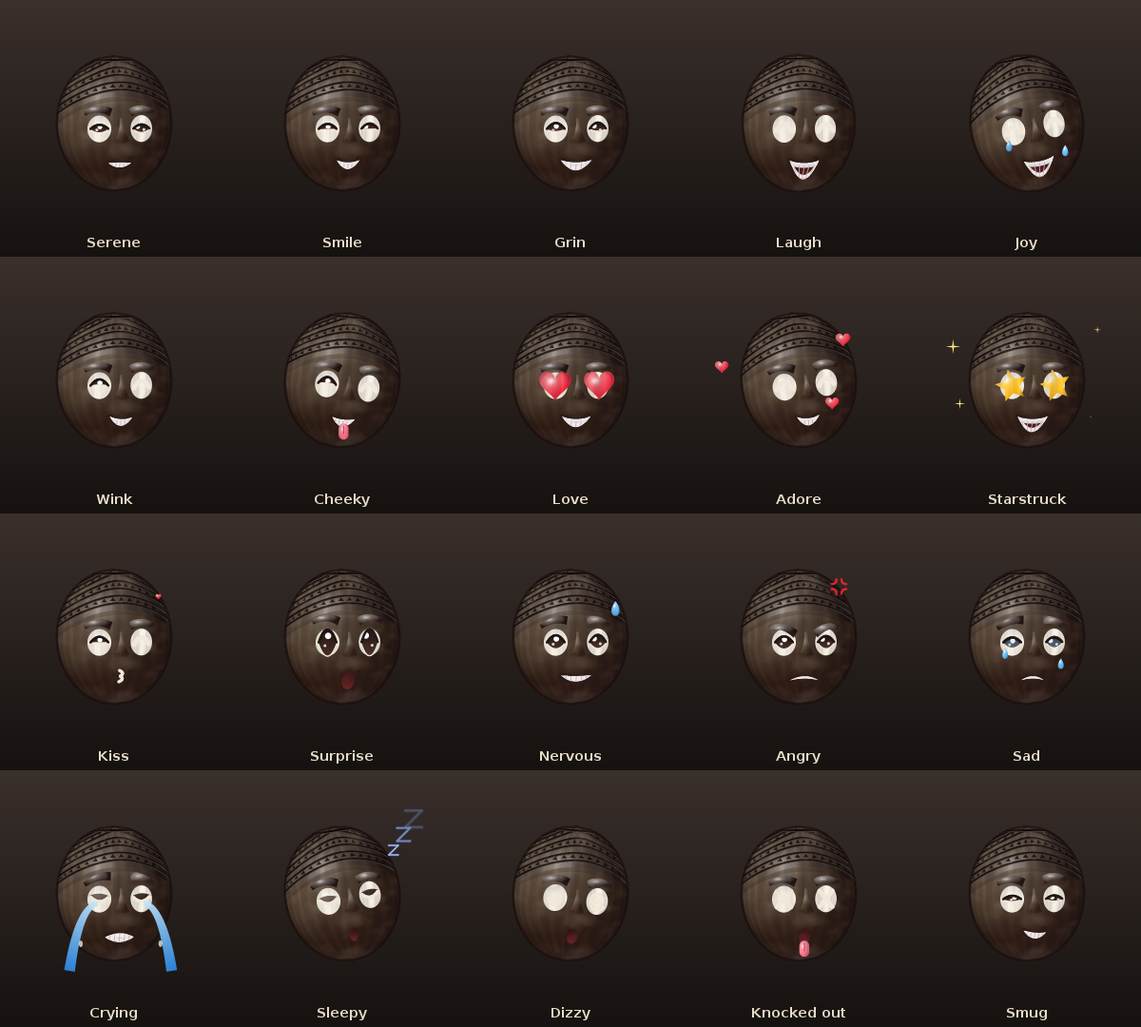
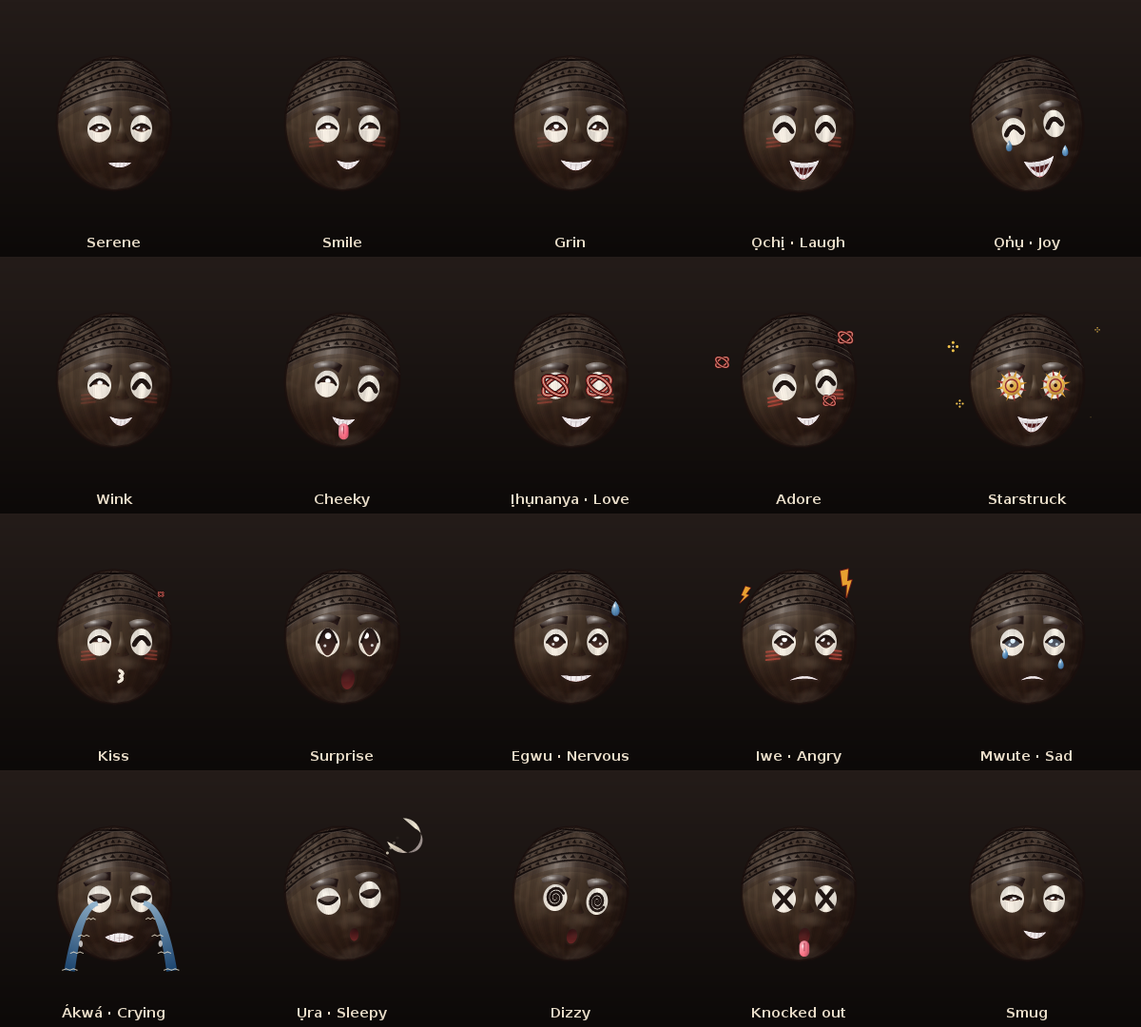
Emoji masks: darker, Igbo presets and Igbo and African emotion signs
Darker: deeper and cooler shadows with a lower key light. Painted masks
are aged toward their wood and worn through more, and the generator leans
to carved blackwood and mahogany.

Feelings shown in the masks' own signs instead of Western emoji. On wood
and brass (the glossy finish keeps the emoji ones):
- love is a lovers' knot of two loops, in camwood and kaolin, inspired by
  nsibidi;
- wonder turns the eyes into Anyanwu, the sun;
- anger is Amadioha's thunder, a flickering bolt;
- sleep is the moon, onwa, rising with a trail of dots;
- delight is uli dots in diamonds;
- blush is uhie, camwood rubbed on the cheeks in three stripes;
- tears run in deep water with the uli wave sign for water.

Igbo presets: Agbogho Mmuo, Okoroshi Ocha and Ojo, Mgbedike, Ikenga,
Igbo-Ukwu bronze, Ijele, Afikpo Okumkpa, Ogbodo Enyi, Mbari Nne, an uli
maiden and an ichi elder. The eight plain feelings carry Igbo names, which
a speaker should check.

Claude-Session: https://claude.ai/code/session_012NjHhwH1EvBHzbd255Gvhb

diff --git a/engine/model/src/main/kotlin/com/stratum/engine/model/mask/EmojiMask.kt b/engine/model/src/main/kotlin/com/stratum/engine/model/mask/EmojiMask.kt
@@ -178,37 +178,46 @@ object EmojiMask {
     // ---- Masks from the carvers ----------------------------------------------------------
 
     /** Masks after the carvers' own: maidens, spirits, the brave. */
+    /** Igbo masks after the carvers': maidens and spirits of the masquerade, titled elders, the old bronzes. */
     val presets: List<Look> = listOf(
         Look("Agbogho Mmuo", shape = FaceShape.LONG, width = 0.4f, crestColour = BLACKWOOD, crestCount = 3, crestSize = 0.6f, hairline = Hairline.HIGH,
-            marks = setOf(Mark.LINE, Mark.STAR, Mark.TEMPLE), paint = setOf(Paint.LIDS)),
-        Look("Fang Ngil", finish = Finish.CARVED, shape = FaceShape.LONG, ground = BLACKWOOD, wood = BLACKWOOD, hair = BLACKWOOD, accent = KAOLIN, width = 0.3f,
-            hairline = Hairline.BALD, crest = Crest.RIDGES, crestCount = 1, crestSize = 0.7f, crestColour = BLACKWOOD, eyes = EyeStyle.SLIT, brows = BrowStyle.NONE,
+            marks = setOf(Mark.LINE, Mark.STAR, Mark.TEMPLE), paint = setOf(Paint.LIDS, Paint.SPIRALS)),
+        Look("Okoroshi Ocha", finish = Finish.CARVED, shape = FaceShape.LONG, ground = BLACKWOOD, wood = BLACKWOOD, hair = BLACKWOOD, accent = KAOLIN, width = 0.35f,
+            hairline = Hairline.BALD, crest = Crest.RIDGES, crestCount = 1, crestSize = 0.6f, crestColour = BLACKWOOD, eyes = EyeStyle.SLIT, brows = BrowStyle.NONE,
             paint = setOf(Paint.HEART), marks = setOf(Mark.LINE)),
         Look("Okoroshi Ojo", finish = Finish.CARVED, ground = BLACKWOOD, wood = BLACKWOOD, hair = LAMPBLACK, accent = KAOLIN, accent2 = GOLD, hairline = Hairline.LOW,
             crest = Crest.NONE, eyes = EyeStyle.ROUND, brows = BrowStyle.RIDGE, nose = NoseStyle.BROAD, mouth = MouthStyle.TEETH, marks = setOf(Mark.ICHI), width = 0.7f),
         Look("Mgbedike", finish = Finish.CARVED, shape = FaceShape.ROUND, ground = MAHOGANY, wood = MAHOGANY, hair = BLACKWOOD, accent = KAOLIN, accent2 = GOLD, crestColour = BONE,
             hairline = Hairline.BALD, crest = Crest.HORNS, crestSize = 0.8f, eyes = EyeStyle.TUBE, brows = BrowStyle.RIDGE, nose = NoseStyle.BROAD, mouth = MouthStyle.TEETH,
             ears = Ears.SMALL, marks = setOf(Mark.CHEEK), beard = true, width = 0.8f),
-        Look("Beaded Maiden", wood = IROKO, accent = VERMILION, accent2 = INDIGO, crest = Crest.RIDGES, crestCount = 1, crestSize = 0.9f, crestColour = INDIGO, cowries = true,
-            brows = BrowStyle.THIN, paint = setOf(Paint.SPLIT), marks = emptySet(), width = 0.35f, shape = FaceShape.LONG, hairline = Hairline.HIGH),
-        Look("Conical Crest", wood = UMBER, crest = Crest.CONE, crestColour = IROKO, accent = OCHRE, accent2 = VERMILION, hairline = Hairline.HIGH,
-            marks = setOf(Mark.LINE, Mark.KELOID), paint = setOf(Paint.LIDS)),
-        Look("Afikpo Elder", finish = Finish.CARVED, shape = FaceShape.LONG, ground = IROKO, wood = IROKO, hair = BLACKWOOD, accent = VERMILION, accent2 = KAOLIN,
-            hairline = Hairline.BALD, crest = Crest.NONE, paint = setOf(Paint.EYE_BAND), marks = setOf(Mark.ICHI), width = 0.25f, brows = BrowStyle.THIN),
-        Look("Ijele Crown", ground = OCHRE, wood = MAHOGANY, accent = VERMILION, accent2 = JADE, crestColour = JADE, crest = Crest.TIERS, hairline = Hairline.HIGH,
-            marks = setOf(Mark.ICHI), cowries = true),
-        Look("Knot Maiden", hair = INDIGO, crest = Crest.KNOTS, crestColour = INDIGO, crestCount = 3, eyes = EyeStyle.BEAN,
-            marks = setOf(Mark.TEMPLE, Mark.KELOID), paint = setOf(Paint.SPIRALS), earrings = true, accent = CORAL, shape = FaceShape.HEART, hairline = Hairline.HIGH),
-        Look("Elephant Spirit", ground = TERRACOTTA, wood = BLACKWOOD, hair = LAMPBLACK, hairline = Hairline.LOW, crest = Crest.KNOTS, crestCount = 1, crestColour = BRASS,
-            eyes = EyeStyle.ROUND, mouth = MouthStyle.TEETH, ears = Ears.ELEPHANT, accent = KAOLIN, marks = setOf(Mark.ICHI), shape = FaceShape.ROUND, width = 0.8f),
-        Look("Benin Queen", finish = Finish.BRASS, ground = BRASS, wood = BRASS, hair = BRASS, crest = Crest.CONE, crestColour = BRASS, crestSize = 0.9f, hairline = Hairline.HIGH,
-            braids = false, cowries = true, brows = BrowStyle.THIN, accent = CORAL, accent2 = CORAL, marks = setOf(Mark.TEMPLE), earrings = true,
-            shape = FaceShape.LONG, width = 0.45f),
-        Look("Camwood Maiden", finish = Finish.CARVED, ground = CAMWOOD, wood = CAMWOOD, hair = BLACKWOOD, crest = Crest.LOBES, crestCount = 3, crestColour = BLACKWOOD,
-            accent = KAOLIN, accent2 = GOLD, paint = setOf(Paint.SPIRALS), marks = setOf(Mark.STAR), cowries = true),
-        Look("Brass Warrior", finish = Finish.BRASS, ground = BRASS, wood = BRASS, hair = BRASS, crest = Crest.HORNS, crestColour = BRASS, crestSize = 0.6f, hairline = Hairline.BALD,
-            eyes = EyeStyle.TUBE, brows = BrowStyle.RIDGE, nose = NoseStyle.BROAD, mouth = MouthStyle.TEETH, marks = setOf(Mark.CHEEK), beard = true, shape = FaceShape.ROUND, width = 0.7f,
-            accent = CORAL),
+        Look("Ikenga", finish = Finish.CARVED, ground = BLACKWOOD, wood = BLACKWOOD, hair = BLACKWOOD, accent = CAMWOOD, accent2 = KAOLIN, crestColour = UMBER,
+            hairline = Hairline.BALD, crest = Crest.HORNS, crestSize = 1f, eyes = EyeStyle.BEAN, brows = BrowStyle.RIDGE, mouth = MouthStyle.WIDE,
+            marks = setOf(Mark.ICHI, Mark.TEMPLE), beard = true, width = 0.6f),
+        Look("Igbo-Ukwu Bronze", finish = Finish.BRASS, ground = BRASS, wood = BRASS, hair = BRASS, crest = Crest.NONE, hairline = Hairline.HIGH, braids = true,
+            cowries = true, eyes = EyeStyle.BEAN, brows = BrowStyle.NONE, marks = setOf(Mark.ICHI, Mark.TEMPLE, Mark.CHEEK), accent = CORAL, accent2 = CORAL,
+            shape = FaceShape.OVAL, width = 0.55f),
+        Look("Ijele", ground = OCHRE, wood = MAHOGANY, accent = VERMILION, accent2 = JADE, crestColour = JADE, crest = Crest.TIERS, hairline = Hairline.HIGH,
+            marks = setOf(Mark.ICHI), paint = setOf(Paint.SPIRALS), cowries = true),
+        Look("Afikpo Okumkpa", finish = Finish.CARVED, shape = FaceShape.LONG, ground = IROKO, wood = IROKO, hair = BLACKWOOD, accent = CAMWOOD, accent2 = KAOLIN,
+            hairline = Hairline.BALD, crest = Crest.NONE, paint = setOf(Paint.EYE_BAND), marks = setOf(Mark.ICHI), width = 0.25f, brows = BrowStyle.THIN, eyes = EyeStyle.SLIT),
+        Look("Ogbodo Enyi", finish = Finish.CARVED, ground = BLACKWOOD, wood = BLACKWOOD, hair = LAMPBLACK, hairline = Hairline.LOW, crest = Crest.KNOTS, crestCount = 1,
+            crestColour = CAMWOOD, eyes = EyeStyle.ROUND, mouth = MouthStyle.TEETH, ears = Ears.ELEPHANT, accent = KAOLIN, marks = setOf(Mark.ICHI),
+            shape = FaceShape.ROUND, width = 0.8f),
+        Look("Mbari Nne", ground = KAOLIN, wood = UMBER, hair = LAMPBLACK, crest = Crest.CONE, crestColour = CAMWOOD, crestSize = 0.8f, accent = OCHRE, accent2 = CAMWOOD,
+            hairline = Hairline.HIGH, marks = setOf(Mark.LINE, Mark.KELOID), paint = setOf(Paint.SPIRALS, Paint.CHIN), earrings = true),
+        Look("Uli Maiden", finish = Finish.CARVED, ground = CAMWOOD, wood = CAMWOOD, hair = BLACKWOOD, crest = Crest.LOBES, crestCount = 3, crestColour = BLACKWOOD,
+            accent = KAOLIN, accent2 = GOLD, paint = setOf(Paint.SPIRALS), marks = setOf(Mark.STAR, Mark.TEMPLE), cowries = true, shape = FaceShape.HEART),
+        Look("Ichi Elder", finish = Finish.CARVED, ground = UMBER, wood = UMBER, hair = BLACKWOOD, accent = KAOLIN, hairline = Hairline.BALD, crest = Crest.NONE,
+            eyes = EyeStyle.BEAN, brows = BrowStyle.RIDGE, nose = NoseStyle.BROAD, marks = setOf(Mark.ICHI, Mark.TEMPLE, Mark.CHEEK), beard = true, shape = FaceShape.LONG, width = 0.5f),
+    )
+
+    /**
+     * Igbo names for the feelings, for players to see beside the English.
+     * Only the plain, common words; a speaker should check them.
+     */
+    val igboNames: Map<String, String> = mapOf(
+        "Laugh" to "Ọchị", "Joy" to "Ọṅụ", "Love" to "Ịhụnanya", "Angry" to "Iwe", "Sad" to "Mwute",
+        "Crying" to "Ákwá", "Sleepy" to "Ụra", "Nervous" to "Egwu",
     )
 
     /** A mask from [seed]: the same seed, the same mask. */
@@ -216,12 +225,12 @@ object EmojiMask {
         val r = Random(seed * 0x5DEECE66DL + 11)
         fun <T> one(xs: List<T>): T = xs[r.nextInt(xs.size)]
         fun <T> some(xs: List<T>, most: Int): Set<T> = xs.shuffled(r).take(r.nextInt(0, most + 1)).toSet()
-        val finish = one(listOf(Finish.CARVED, Finish.CARVED, Finish.PAINTED, Finish.PAINTED, Finish.PAINTED, Finish.BRASS))
-        val wood = one(listOf(IROKO, BLACKWOOD, MAHOGANY, UMBER, CAMWOOD))
+        val finish = one(listOf(Finish.CARVED, Finish.CARVED, Finish.CARVED, Finish.PAINTED, Finish.PAINTED, Finish.BRASS))
+        val wood = one(listOf(BLACKWOOD, BLACKWOOD, MAHOGANY, MAHOGANY, UMBER, CAMWOOD, IROKO))
         val ground = when (finish) {
             Finish.CARVED -> wood
             Finish.BRASS -> BRASS
-            else -> one(listOf(KAOLIN, KAOLIN, KAOLIN, BONE, OCHRE, CAMWOOD, TERRACOTTA, INDIGO))
+            else -> one(listOf(KAOLIN, KAOLIN, BONE, OCHRE, CAMWOOD, CAMWOOD, INDIGO))
         }
         val dark = ground in setOf(CAMWOOD, UMBER, CHARCOAL, INDIGO)
         val eyes = one(listOf(EyeStyle.BEAN, EyeStyle.BEAN, EyeStyle.BEAN, EyeStyle.TUBE, EyeStyle.TUBE, EyeStyle.ROUND, EyeStyle.ROUND, EyeStyle.SLIT, EyeStyle.ALMOND))
@@ -301,14 +310,15 @@ object EmojiMask {
         val gloss = look.finish == Finish.GLOSS
         /** How shiny a surface of this mask is: waxed wood is satin, chalk is matte, brass gleams. */
         val sheen = when (look.finish) { Finish.CARVED -> 0.2f; Finish.PAINTED -> 0.12f; Finish.BRASS -> 0.95f; Finish.GLOSS -> 0.42f }
-        val faceMat = moody(material(pigment(look.ground), sheen))
+        val faceMat = moody(material(if (look.finish == Finish.PAINTED) mix(pigment(look.ground), pigment(look.wood), 0.14f) else pigment(look.ground), sheen))
         val woodMat = moody(material(pigment(look.wood), 0.22f))
         val hairMat = moody(material(pigment(look.hair), if (gloss) 0.75f else if (metal) 0.9f else 0.35f))
         val crestMat = moody(material(pigment(look.crestColour), if (gloss) 0.6f else if (metal) 0.9f else 0.3f))
 
         /** Deeper, cooler shadows and warmer light, as a painter lights a figure; the glossy emoji keeps its own. */
         fun moody(m: Material): Material = if (gloss) m else Material(
-            light = mix(m.base, c(0xFFE6BE), 0.34f), base = m.base, shade = mix(m.base, c(0x160C14), 0.58f), spec = m.spec, bounce = mix(m.base, c(0xD8764A), 0.35f),
+            light = mix(m.base, c(0xFFDDAE), 0.24f), base = mix(m.base, c(0x1A0E0C), 0.12f), shade = mix(m.base, c(0x0C0608), 0.7f), spec = m.spec * 0.8f,
+            bounce = mix(m.base, c(0xB85A30), 0.3f),
         )
         val accentMat = material(pigment(look.accent), 0.5f)
         val accent2Mat = material(pigment(look.accent2), 0.45f)
@@ -316,7 +326,8 @@ object EmojiMask {
         val carved = mix(pigment(look.ground), c(0x1E1212), if (luma(pigment(look.ground)) > 0.5f) 0.62f else 0.3f)
         /** A dark mask draws its lines in kaolin, as the carvers paint round its eyes and mouth. */
         val darkGround = luma(pigment(look.ground)) < 0.3f
-        val eyeLine = if (darkGround) c(0xF1E8DA) else EYE_DARK
+        /** Round eyes sit on a painted kaolin disc, so their lines are dark whatever the wood. */
+        val eyeLine = if (darkGround && look.eyes != EyeStyle.ROUND) c(0xF1E8DA) else EYE_DARK
         val mouthLine = if (darkGround) c(0xF1E8DA) else MOUTH_INK
 
         /** On a dark mask, a kaolin rim round a dark opening so it reads. */
@@ -439,7 +450,7 @@ object EmojiMask {
             if (look.finish != Finish.PAINTED) return 0f
             // Worn back to the wood at the rim, on the high points and in patches.
             val n = fbm(th * 3.1f + 7f, v * 3.4f) + 0.35f * nz - 0.05f * noise(th * 20f, v * 20f)
-            return ((n - 0.49f) / 0.05f).coerceIn(0f, 1f)
+            return ((n - 0.53f) / 0.05f).coerceIn(0f, 1f)
         }
 
         /** A shaded paint for a rounded piece centred at ([cx], [cy]) with radii [rw], [rh], turned by [angle]. */
@@ -674,8 +685,8 @@ object EmojiMask {
                 Paint.CHIN -> region(-HALF_PI, HALF_PI, { -1f }, { MOUTH_V - 0.17f }, 48)?.let { cv.fill(it, headPaint(accent2Mat)) }
                 Paint.SPIRALS -> sides { sd ->
                     val pts = FloatArray(82)
-                    for (i in 0..40) { val k = i / 40f; val a = k * 4.2f * PI.toFloat() * sd; val r = 0.012f + 0.085f * k; pts[i * 2] = sd * 0.52f + cos(a) * r; pts[i * 2 + 1] = -0.2f + sin(a) * r }
-                    if (facing(sd * 0.52f, -0.2f) > 0.1f) cv.stroke(onFace(pts), 0.02f, ink)
+                    for (i in 0..40) { val k = i / 40f; val a = k * 4.2f * PI.toFloat() * sd; val r = 0.01f + 0.07f * k; pts[i * 2] = sd * 0.6f + cos(a) * r; pts[i * 2 + 1] = -0.42f + sin(a) * r }
+                    if (facing(sd * 0.6f, -0.42f) > 0.1f) cv.stroke(onFace(pts), 0.02f, ink)
                 }
                 Paint.HEART -> {
                     // The Fang heart: a concave plane from the brows down to the chin, framed by a carved ridge.
@@ -738,11 +749,24 @@ object EmojiMask {
             }
         }
 
+        /** Uhie, camwood, rubbed on the cheeks: a warm smear and three stripes -- the feeling shows in the pigment. */
         fun blush() {
             val amount = (f.blush + f.anger * 0.3f).coerceIn(0f, 1.2f)
-            if (amount <= 0f || !gloss) return
-            val col = if (luma(pigment(look.ground)) > 0.5f) c(0xE8584A) else c(0xFF6A5A)
-            sides { sd -> softOnFace(sd * 0.56f, -0.26f, 0.24f, 0.14f, col, 0.55f * amount) }
+            if (amount <= 0f) return
+            if (gloss) {
+                val col = if (luma(pigment(look.ground)) > 0.5f) c(0xE8584A) else c(0xFF6A5A)
+                sides { sd -> softOnFace(sd * 0.56f, -0.26f, 0.24f, 0.14f, col, 0.55f * amount) }
+                return
+            }
+            val cam = if (darkGround) c(0xC0473A) else c(0x8E2C2F)
+            sides { sd ->
+                if (facing(sd * 0.55f, -0.28f) <= 0.15f) return@sides
+                softOnFace(sd * 0.55f, -0.28f, 0.22f, 0.12f, cam, 0.45f * amount)
+                for (i in 0 until 3) {
+                    val v = -0.2f - i * 0.06f
+                    cv.stroke(onFace(floatArrayOf(sd * 0.44f, v, sd * 0.66f, v - 0.02f)), 0.026f, cam, opacity = min(1f, amount) * 0.9f)
+                }
+            }
         }
 
         // ---- the face ----------------------------------------------------------------
@@ -796,17 +820,23 @@ object EmojiMask {
             }
             when (f.eyeKind) {
                 EyeKind.HEART -> {
-                    val p = point(cu, v, 0.04f); val s = 0.27f * (1f + 0.08f * sin(t * 9f))
-                    val h = heart(p[0], p[1], s * (0.45f + 0.55f * fc), s)
-                    val b = bounds(h)
-                    cv.fill(h, blobPaint(material(c(0xE8283C), 0.8f), (b[0] + b[2]) / 2f, (b[1] + b[3]) / 2f, (b[2] - b[0]) / 2f, (b[3] - b[1]) / 2f))
+                    // Love: a lovers' knot, two loops holding each other, beating.
+                    val p = point(cu, v, 0.04f); val s = 0.2f * (1f + 0.08f * sin(t * 6f))
+                    if (gloss) {
+                        val h = heart(p[0], p[1], s * 1.3f * (0.45f + 0.55f * fc), s * 1.3f)
+                        val b = bounds(h)
+                        cv.fill(h, blobPaint(material(c(0xE8283C), 0.8f), (b[0] + b[2]) / 2f, (b[1] + b[3]) / 2f, (b[2] - b[0]) / 2f, (b[3] - b[1]) / 2f))
+                    } else knot(p[0], p[1], s, 0.45f + 0.55f * fc)
                     return
                 }
                 EyeKind.STAR -> {
-                    val p = point(cu, v, 0.04f); val s = 0.25f * (1f + 0.06f * sin(t * 7f))
-                    val st5 = star(p[0], p[1], s * 0.45f, s, 5, t * 0.6f, fc)
-                    val b = bounds(st5)
-                    cv.fill(st5, blobPaint(material(c(0xFFC21A), 0.9f), (b[0] + b[2]) / 2f, (b[1] + b[3]) / 2f, (b[2] - b[0]) / 2f, (b[3] - b[1]) / 2f))
+                    // Wonder: the eyes become Anyanwu, the sun.
+                    val p = point(cu, v, 0.04f); val s = 0.22f * (1f + 0.06f * sin(t * 5f))
+                    if (gloss) {
+                        val st5 = star(p[0], p[1], s * 0.5f, s * 1.1f, 5, t * 0.6f, fc)
+                        val b = bounds(st5)
+                        cv.fill(st5, blobPaint(material(c(0xFFC21A), 0.9f), (b[0] + b[2]) / 2f, (b[1] + b[3]) / 2f, (b[2] - b[0]) / 2f, (b[3] - b[1]) / 2f))
+                    } else sun(p[0], p[1], s, t * 0.5f, 0.45f + 0.55f * fc)
                     return
                 }
                 EyeKind.X -> {
@@ -1194,7 +1224,18 @@ object EmojiMask {
                 val p = point(0.6f, 0.42f, 0.05f)
                 drop(p[0] + 0.06f, p[1] - ((t * 0.3f) % 1f) * 0.05f, 0.08f * f.sweat)
             }
-            if (f.zzz > 0f) for (k in 0 until 3) {
+            if (f.zzz > 0f && !gloss) {
+                // Sleep: ọnwa, the moon, rising with a trail of dots.
+                val ph = (t * 0.2f) % 1f
+                val x = 0.9f + 0.15f * ph; val y = headY + 0.85f + 0.2f * ph
+                val s = 0.26f * f.zzz
+                cv.fill(crescentShape(x, y, s, -0.6f), blobPaint(material(c(0xE8E0CC), 0.4f), x, y, s, s))
+                for (k in 0 until 4) {
+                    val q = (t * 0.5f + k / 4f) % 1f
+                    cv.fill(Shapes.ellipse(x - 0.28f + 0.2f * q, y - 0.32f + 0.3f * q, 0.022f, 0.022f, 10), c(0xE8E0CC), (1f - q) * f.zzz)
+                }
+            }
+            if (f.zzz > 0f && gloss) for (k in 0 until 3) {
                 val ph = (t * 0.35f + k / 3f) % 1f
                 val s = (0.06f + 0.08f * ph) * f.zzz
                 val x = 0.7f + 0.45f * ph; val y = headY + 0.55f + 0.7f * ph
@@ -1202,7 +1243,15 @@ object EmojiMask {
                 cv.stroke(z, s * 0.55f, c(0x2A3A7A), opacity = 1f - ph)
                 cv.stroke(z, s * 0.3f, c(0xBFD8FF), opacity = 1f - ph)
             }
-            if (f.hearts > 0f) {
+            if (f.hearts > 0f && !gloss) {
+                val n = if (f.hearts > 0.6f) 3 else 1
+                for (k in 0 until n) {
+                    val a = t * 0.8f + k * 2.1f + 0.6f
+                    val x = cos(a) * 1.15f; val y = headY + 0.2f + sin(a) * 0.55f
+                    knot(x, y, 0.11f * f.hearts * (1f + 0.1f * sin(t * 6f + k)), 1f)
+                }
+            }
+            if (f.hearts > 0f && gloss) {
                 val n = if (f.hearts > 0.6f) 3 else 1
                 for (k in 0 until n) {
                     val a = t * 0.9f + k * 2.1f + 0.6f
@@ -1212,7 +1261,13 @@ object EmojiMask {
                     cv.fill(h, blobPaint(material(c(0xE8283C), 0.8f), x, y, s, s))
                 }
             }
-            if (f.anger > 0f) {
+            if (f.anger > 0f && !gloss) {
+                // Anger: Amadioha's thunder, a bolt over the brow, flickering.
+                val flick = if (((t * 7f).toInt() % 5) == 0) 0.6f else 1f
+                bolt(0.72f, headY + 0.8f, 0.2f * f.anger, 0.25f, flick)
+                bolt(-0.8f, headY + 0.62f, 0.13f * f.anger, -0.3f, flick)
+            }
+            if (f.anger > 0f && gloss) {
                 val cx = 0.6f; val cy = headY + 0.75f; val s = 0.1f * f.anger * (1f + 0.08f * sin(t * 10f))
                 for (q in 0 until 4) {
                     val a = q * PI.toFloat() / 2f + PI.toFloat() / 4f
@@ -1221,7 +1276,19 @@ object EmojiMask {
                     cv.stroke(arc, s * 0.32f, c(0xE0242E))
                 }
             }
-            if (f.sparkle > 0f) {
+            if (f.sparkle > 0f && !gloss) {
+                // Delight: uli dots, four in a diamond, twinkling round the head.
+                val spots = listOf(-1.1f to 0.5f, 1.05f to 0.75f, 0.95f to -0.55f, -1.0f to -0.35f)
+                spots.forEachIndexed { i, (x, y) ->
+                    val tw = (0.55f + 0.45f * sin(t * 4f + i * 1.7f)) * f.sparkle
+                    for (q in 0 until 4) {
+                        val a = q * PI.toFloat() / 2f
+                        cv.fill(Shapes.ellipse(x + cos(a) * 0.06f * tw, headY + y + sin(a) * 0.06f * tw, 0.022f * tw, 0.022f * tw, 10), c(0xF2C24A))
+                    }
+                    cv.fill(Shapes.ellipse(x, headY + y, 0.014f * tw, 0.014f * tw, 8), c(0xF4ECDC))
+                }
+            }
+            if (f.sparkle > 0f && gloss) {
                 val spots = listOf(-1.1f to 0.5f, 1.05f to 0.75f, 0.95f to -0.55f, -1.0f to -0.35f)
                 spots.forEachIndexed { i, (x, y) ->
                     val tw = (0.55f + 0.45f * sin(t * 4f + i * 1.7f)) * f.sparkle
@@ -1239,7 +1306,14 @@ object EmojiMask {
                     val a = point(sd * (EYE_U + 0.02f), EYE_V - 0.06f, 0.03f)
                     val spine = floatArrayOf(a[0], a[1], a[0] + sd * 0.28f, a[1] - 0.05f, a[0] + sd * 0.42f, headY - ry - 0.15f)
                     val s = Shapes.taper(spine[0], spine[1], spine[2], spine[3], spine[4], spine[5], 0.07f, 0.16f * amount, 18)
-                    cv.fill(s, linear(spine[0], spine[1], c(0xBFE6FF), spine[4], spine[5], c(0x2E8AE6)), 0.92f)
+                    cv.fill(s, linear(spine[0], spine[1], if (gloss) c(0xBFE6FF) else c(0x8FB4D0), spine[4], spine[5], if (gloss) c(0x2E8AE6) else c(0x1E4A78)), 0.92f)
+                    if (!gloss) for (q in 0 until 4) {
+                        // Mmiri: the uli sign for water, waves running down the stream.
+                        val k = ((t * 0.6f + q / 4f) % 1f)
+                        val wx = spine[0] + (spine[4] - spine[0]) * k; val wy = spine[1] + (spine[5] - spine[1]) * k
+                        val ww = 0.05f + 0.06f * k
+                        cv.stroke(floatArrayOf(wx - ww, wy, wx - ww / 2f, wy + 0.02f, wx, wy, wx + ww / 2f, wy + 0.02f, wx + ww, wy), 0.014f, c(0xE8E0CC), opacity = 0.8f)
+                    }
                     val wave = (t * 1.5f) % 1f
                     val wy = spine[1] + (spine[5] - spine[1]) * wave
                     cv.fill(Shapes.ellipse(spine[0] + (spine[4] - spine[0]) * wave, wy, 0.03f, 0.05f, 12), c(0xFFFFFF), 0.7f)
@@ -1254,7 +1328,51 @@ object EmojiMask {
         fun drop(x: Float, y: Float, s: Float) {
             val pts = teardrop(x, y, s)
             val b = bounds(pts)
-            cv.fill(pts, blobPaint(material(c(0x5AB4F5), 0.95f), (b[0] + b[2]) / 2f, (b[1] + b[3]) / 2f, (b[2] - b[0]) / 2f, (b[3] - b[1]) / 2f))
+            cv.fill(pts, blobPaint(material(if (gloss) c(0x5AB4F5) else c(0x4A86B8), 0.95f), (b[0] + b[2]) / 2f, (b[1] + b[3]) / 2f, (b[2] - b[0]) / 2f, (b[3] - b[1]) / 2f))
+        }
+
+        // ---- signs -----------------------------------------------------------------------
+
+        /** A lovers' knot: two loops holding each other, camwood with a kaolin line. */
+        fun knot(x: Float, y: Float, s: Float, squeeze: Float) {
+            for (a in listOf(0.6f, -0.6f)) {
+                val loop = rotate(Shapes.ellipse(x, y, s * squeeze, s * 0.5f, 28), x, y, a)
+                cv.stroke(loop, s * 0.32f, c(0x2A0E0E), closed = true)
+                cv.stroke(loop, s * 0.2f, c(0xA8322E), closed = true)
+                cv.stroke(loop, s * 0.05f, c(0xF0E4CC), closed = true, opacity = 0.9f)
+            }
+        }
+
+        /** Anyanwu, the sun: a gold disc with a camwood ring, and rays turning round it. */
+        fun sun(x: Float, y: Float, s: Float, spin: Float, squeeze: Float) {
+            val n = 12
+            for (i in 0 until n) {
+                val a = spin + i * 2f * PI.toFloat() / n
+                val ray = floatArrayOf(
+                    x + cos(a - 0.14f) * s * 0.62f * squeeze, y + sin(a - 0.14f) * s * 0.62f,
+                    x + cos(a) * s * 1.05f * squeeze, y + sin(a) * s * 1.05f,
+                    x + cos(a + 0.14f) * s * 0.62f * squeeze, y + sin(a + 0.14f) * s * 0.62f,
+                )
+                cv.fill(ray, if (i % 2 == 0) c(0xE0A030) else c(0xA8322E))
+            }
+            cv.fill(Shapes.ellipse(x, y, s * 0.62f * squeeze, s * 0.62f, 28), blobPaint(material(c(0xE8B040), 0.7f), x, y, s * 0.62f * squeeze, s * 0.62f))
+            cv.stroke(Shapes.ellipse(x, y, s * 0.4f * squeeze, s * 0.4f, 24), s * 0.08f, c(0x8E2C2F), closed = true)
+            cv.fill(Shapes.ellipse(x, y, s * 0.12f * squeeze, s * 0.12f, 12), c(0x2A0E0E))
+        }
+
+        /** Amadioha's thunder: a zigzag bolt in ochre, edged in camwood. */
+        fun bolt(x: Float, y: Float, s: Float, lean: Float, alpha: Float) {
+            val pts = rotate(floatArrayOf(x - 0.25f * s, y + s, x + 0.35f * s, y + s, x + 0.05f * s, y + 0.15f * s, x + 0.4f * s, y + 0.15f * s,
+                x - 0.3f * s, y - s, x - 0.02f * s, y - 0.1f * s, x - 0.38f * s, y - 0.1f * s), x, y, lean)
+            cv.stroke(pts, s * 0.14f, c(0x6A1A14), closed = true, opacity = alpha)
+            cv.fill(pts, c(0xE8A030), alpha)
+        }
+
+        fun crescentShape(x: Float, y: Float, r: Float, a: Float): FloatArray {
+            val out = ArrayList<Float>()
+            for (i in 0..20) { val th = -2.2f + 4.4f * i / 20f; out += cos(th) * r; out += sin(th) * r }
+            for (i in 20 downTo 0) { val th = -1.75f + 3.5f * i / 20f; out += r * 0.45f + cos(th) * r * 0.72f; out += sin(th) * r * 0.72f }
+            return rotate(Shapes.offset(out.toFloatArray(), x, y), x, y, a)
         }
 
         // ---- shapes -----------------------------------------------------------------------

diff --git a/tools/artpreview/src/main/kotlin/com/stratum/tools/artpreview/MaskSpiritPreview.kt b/tools/artpreview/src/main/kotlin/com/stratum/tools/artpreview/MaskSpiritPreview.kt
@@ -159,7 +159,7 @@ object MaskSpiritPreview {
             if (label.isNotEmpty()) println("  $label drawn in ${"%.0f".format(ms)} ms")
             val img = BufferedImage(size, size + 30, BufferedImage.TYPE_INT_ARGB)
             val g = img.createGraphics()
-            g.paint = java.awt.GradientPaint(0f, 0f, Color(0x3A, 0x30, 0x2C), 0f, size + 30f, Color(0x16, 0x12, 0x10)); g.fillRect(0, 0, size, size + 30)
+            g.paint = java.awt.GradientPaint(0f, 0f, Color(0x24, 0x1C, 0x19), 0f, size + 30f, Color(0x0C, 0x09, 0x08)); g.fillRect(0, 0, size, size + 30)
             val art = BufferedImage(size, size, BufferedImage.TYPE_INT_ARGB).also { it.setRGB(0, 0, size, size, px, 0, size) }
             g.drawImage(art, 0, 0, null)
             g.setRenderingHint(RenderingHints.KEY_TEXT_ANTIALIASING, RenderingHints.VALUE_TEXT_ANTIALIAS_ON)
@@ -171,14 +171,14 @@ object MaskSpiritPreview {
         val smile = em.expressions.getValue("Smile")
         ImageIO.write(sheet(em.presets.map { card(it, smile, it.name) }, 6), "png", File(out, "emoji-masks.png"))
         for ((i, look) in listOf(em.presets[0], em.presets[2]).withIndex()) {
-            val cards = em.expressions.map { (name, face) -> card(look, face, name, 240) }
+            val cards = em.expressions.map { (name, face) -> card(look, face, em.igboNames[name]?.let { "$it · $name" } ?: name, 240) }
             ImageIO.write(sheet(cards, 5), "png", File(out, "emoji-expressions-${i + 1}.png"))
         }
         val turn = listOf(-0.75f, -0.45f, -0.2f, 0f, 0.2f, 0.45f, 0.75f).map { card(em.presets[0], em.expressions.getValue("Grin"), "", 240, it) }
-        ImageIO.write(strip(turn, "Agbogho Mmuo turning: the face wraps the head, the nose and crest stand off it"), "png", File(out, "emoji-turn.png"))
+        ImageIO.write(strip(turn, "${em.presets[0].name} turning: the face wraps the head, the nose and crest stand off it"), "png", File(out, "emoji-turn.png"))
         val a = em.expressions.getValue("Serene"); val b = em.expressions.getValue("Laugh"); val c = em.expressions.getValue("Love")
         val frames = (0..7).map { k -> val x = k / 7f; val face = if (x < 0.5f) em.blend(a, b, x * 2f) else em.blend(b, c, x * 2f - 1f); card(em.presets[3], face, "", 220, 0.1f, k * 0.15f) }
-        ImageIO.write(strip(frames, "Beaded Maiden blending: serene, laughing, in love"), "png", File(out, "emoji-blend.png"))
+        ImageIO.write(strip(frames, "${em.presets[3].name} blending: serene, laughing, in love"), "png", File(out, "emoji-blend.png"))
         val feelings = em.expressions.keys.toList()
         val rolls = (1..12).map { i -> val look = em.generate(i * 104729L, "Roll $i"); card(look, em.expressions.getValue(feelings[(i * 7) % feelings.size]), "${look.crest.label} · ${feelings[(i * 7) % feelings.size]}") }
         ImageIO.write(sheet(rolls, 6), "png", File(out, "emoji-rolls.png"))
